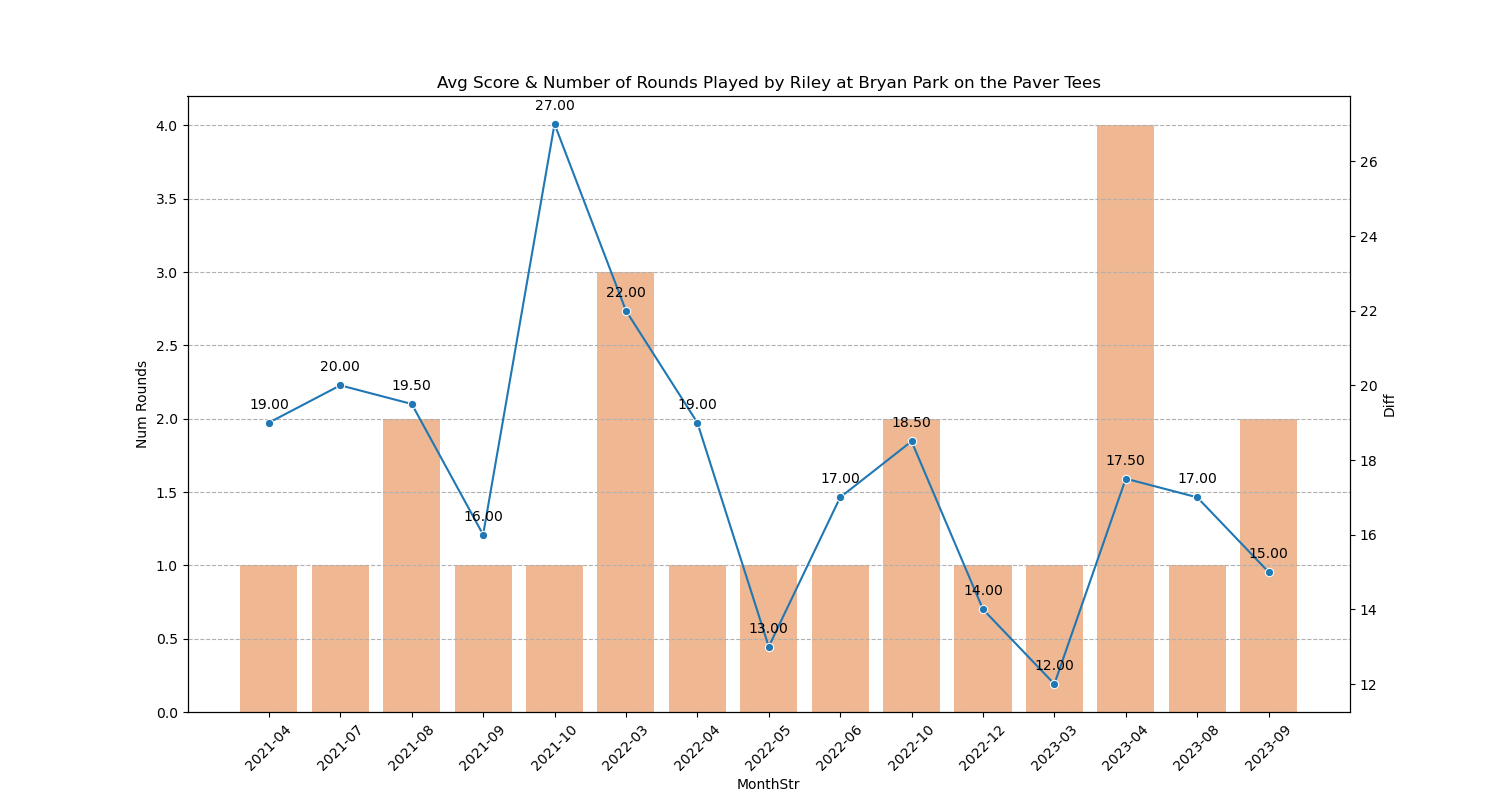
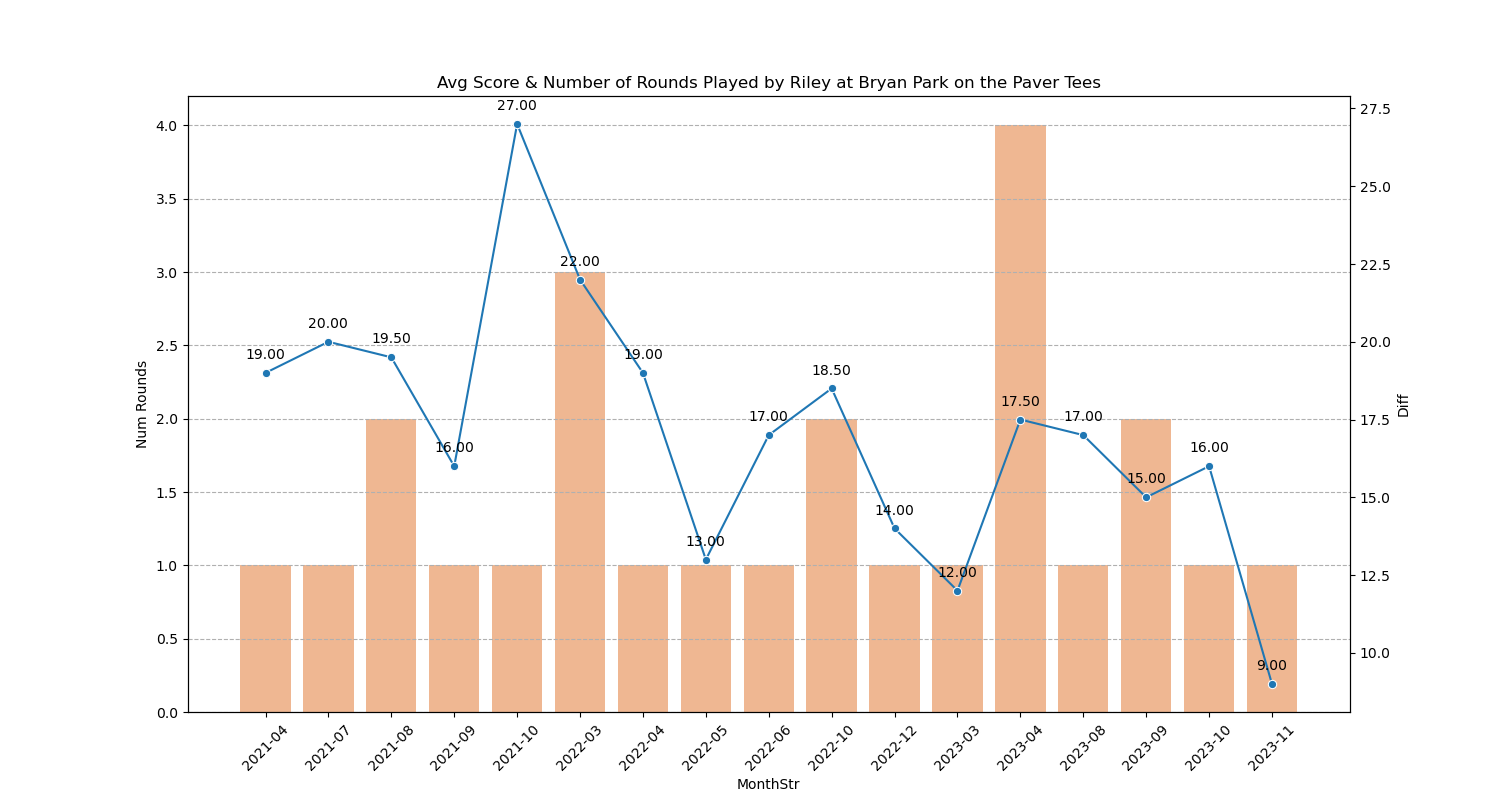
updated Riley stats

diff --git a/reports/Riley_Dunncroft-CastlePointPark_ShortsthenLongs.md b/reports/Riley_Dunncroft-CastlePointPark_ShortsthenLongs.md
@@ -1,6 +1,6 @@
 # Stats for Riley at Dunncroft - Castle Point Park from the Shorts then Longs
 
-Includes rounds up until 2023-10-09 15:10:00
+Includes rounds up until 2023-11-03 21:20:00
 
 ## Summary Statistics
 

diff --git a/reports/Riley_BryanPark_YellowsTees.md b/reports/Riley_BryanPark_YellowsTees.md
@@ -1,6 +1,6 @@
 # Stats for Riley at Bryan Park from the Yellows Tees
 
-Includes rounds up until 2023-10-09 15:10:00
+Includes rounds up until 2023-11-03 21:20:00
 
 ## Summary Statistics
 

diff --git a/reports/Riley_BryanPark_PaverTees.md b/reports/Riley_BryanPark_PaverTees.md
@@ -1,6 +1,6 @@
 # Stats for Riley at Bryan Park from the Paver Tees
 
-Includes rounds up until 2023-10-09 15:10:00
+Includes rounds up until 2023-11-03 21:20:00
 
 ## Summary Statistics
 
